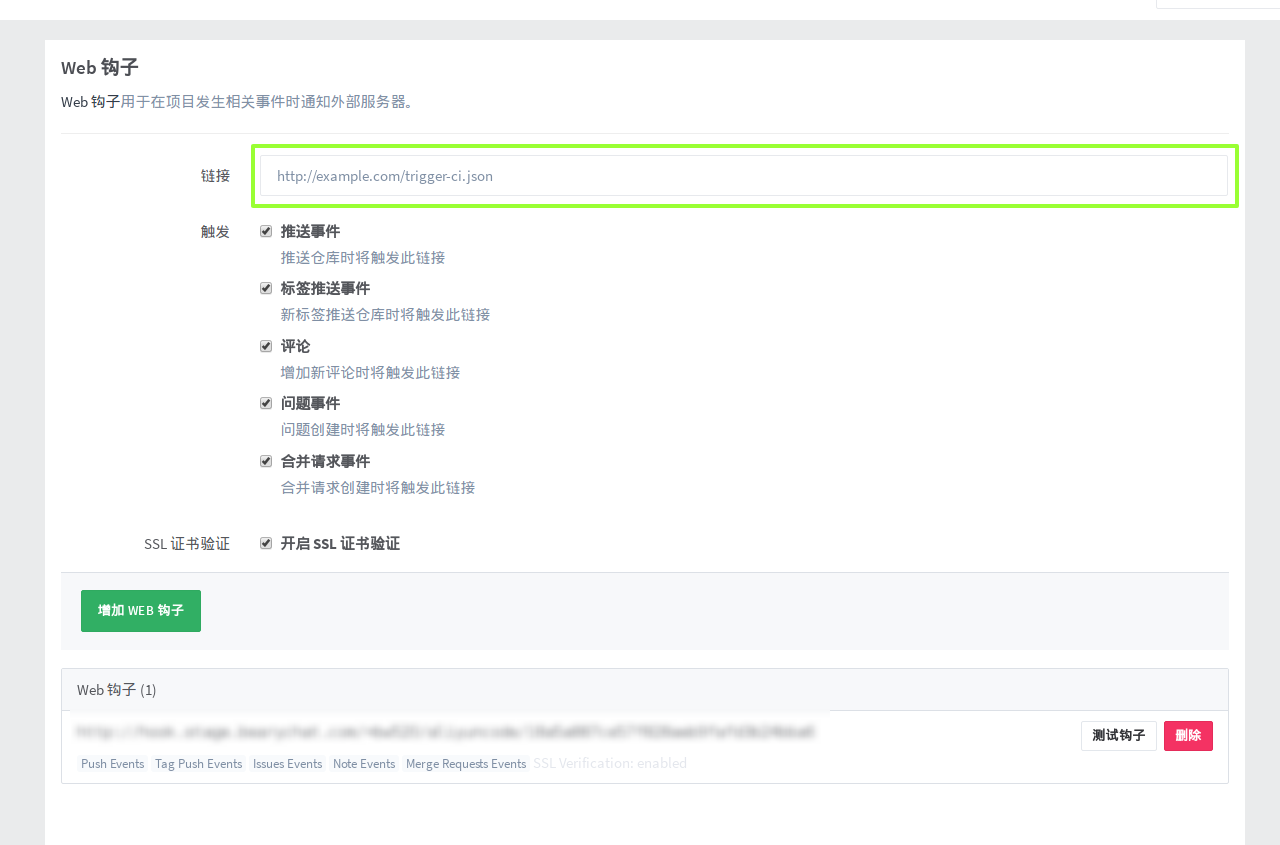
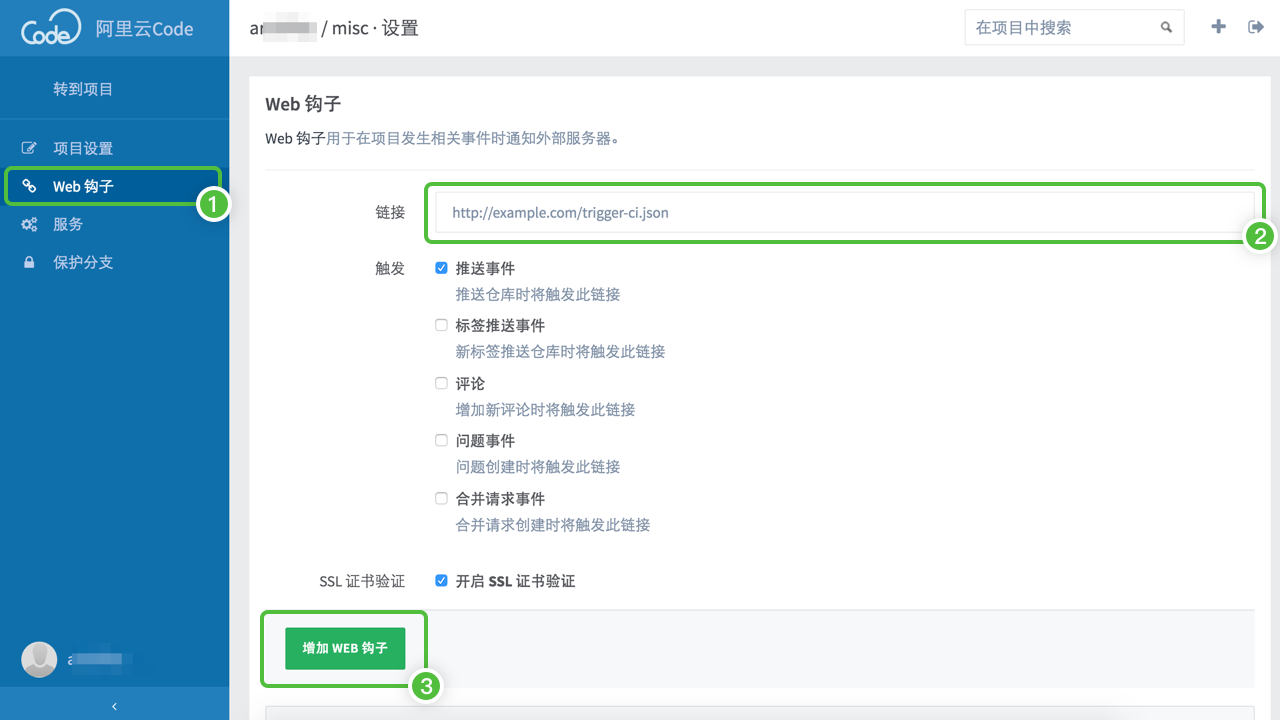
update writings

diff --git a/tutorials/markdown/aliyuncode.md b/tutorials/markdown/aliyuncode.md
@@ -6,15 +6,11 @@
 
 ![](/tutorials/image/aliyuncode_project.png)
 
-## 进入「设置」页面
-
-然后在边栏点击「Web 钩子」按钮
-
-![](/tutorials/image/aliyuncode_webhook.png)
-
 ## 设置 webhook
 
-将 {{webhookUrl}} 填入「链接」中并保存
+在设置页面内，点击边栏的「Web 钩子」按钮。
+
+进入 webhook 设置页面后将 {{webhookUrl}} 填入「链接」中并保存。
 
 ![](/tutorials/image/aliyuncode_add_webhook.png)
 
